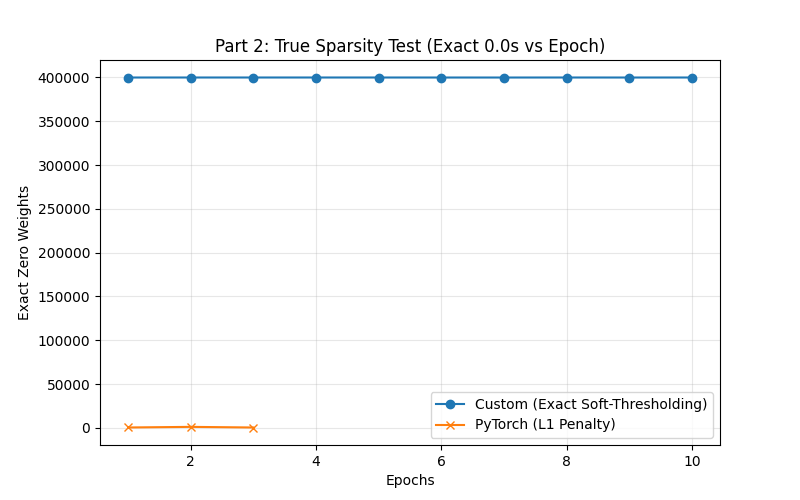
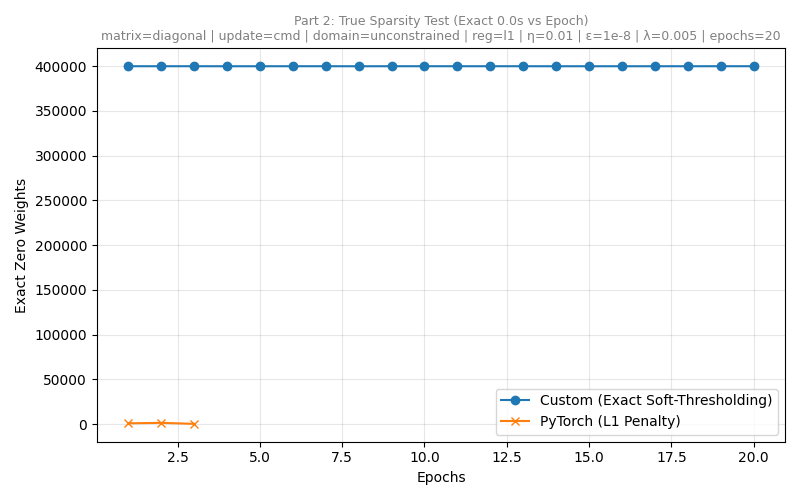
hyperparameters

diff --git a/experiments.py b/experiments.py
@@ -30,12 +30,12 @@ def run_baseline_comparison(device, train_loader, test_loader):
     set_seeds(42)
     model_custom = LogisticRegression(input_dim=20000, num_classes=20).to(device)
     opt_custom = AdaGradStrict(model_custom.parameters(), lr=0.01, matrix_type='diagonal')
-    h_custom = train(model_custom, opt_custom, train_loader, test_loader, epochs=20, device=device)
+    h_custom = train(model_custom, opt_custom, train_loader, test_loader, epochs=30, device=device)
     
     set_seeds(42)
     model_native = LogisticRegression(input_dim=20000, num_classes=20).to(device)
     opt_native = torch.optim.Adagrad(model_native.parameters(), lr=0.01)
-    h_native = train(model_native, opt_native, train_loader, test_loader, epochs=20, device=device)
+    h_native = train(model_native, opt_native, train_loader, test_loader, epochs=30, device=device)
     
     plot_utils.plot_comparisons(h_custom, "AdaGradStrict", h_native, "PyTorch Adagrad")
     return model_custom, opt_custom
@@ -83,7 +83,7 @@ def run_part1(device, train_loader, test_loader):
             if acc > 0:
                 inject_initial_accumulator(opt, model, acc)
                 
-            hist = train(model, opt, train_loader, test_loader, epochs=20, device=device)
+            hist = train(model, opt, train_loader, test_loader, epochs=30, device=device)
             histories[(lr, acc)] = hist
             
             speed = hist['convergence_speed']
@@ -100,12 +100,12 @@ def run_part2(device, train_loader, test_loader):
     set_seeds(42)
     model_custom = LogisticRegression(20000, 20).to(device)
     opt_custom = AdaGradStrict(model_custom.parameters(), lr=0.01, regularizer='l1', lambda_reg=lam)
-    h_custom = train(model_custom, opt_custom, train_loader, test_loader, epochs=20, device=device)
+    h_custom = train(model_custom, opt_custom, train_loader, test_loader, epochs=30, device=device)
     
     set_seeds(42)
     model_native = LogisticRegression(20000, 20).to(device)
     opt_native = torch.optim.Adagrad(model_native.parameters(), lr=0.01)
-    h_native = train(model_native, opt_native, train_loader, test_loader, epochs=3, device=device, pytorch_l1_penalty=lam)
+    h_native = train(model_native, opt_native, train_loader, test_loader, epochs=30, device=device, pytorch_l1_penalty=lam)
     
     plot_utils.plot_part2(h_custom, h_native)
 
@@ -116,12 +116,12 @@ def run_part3(device, train_loader, test_loader):
     set_seeds(42)
     model_cmd = LogisticRegression(20000, 20).to(device)
     opt_cmd = AdaGradStrict(model_cmd.parameters(), lr=0.05, update_type='cmd', regularizer='l2', lambda_reg=lam)
-    h_cmd = train(model_cmd, opt_cmd, train_loader, test_loader, epochs=20, device=device)
+    h_cmd = train(model_cmd, opt_cmd, train_loader, test_loader, epochs=30, device=device)
     
     set_seeds(42)
     model_pd = LogisticRegression(20000, 20).to(device)
     opt_pd = AdaGradStrict(model_pd.parameters(), lr=0.05, update_type='primal_dual', regularizer='l2', lambda_reg=lam)
-    h_pd = train(model_pd, opt_pd, train_loader, test_loader, epochs=20, device=device)
+    h_pd = train(model_pd, opt_pd, train_loader, test_loader, epochs=30, device=device)
     
     plot_utils.plot_part3(h_cmd, h_pd)
 
@@ -132,12 +132,12 @@ def run_part4(device, train_loader, test_loader):
     set_seeds(42)
     model_un = LogisticRegression(20000, 20).to(device)
     opt_un = AdaGradStrict(model_un.parameters(), lr=0.1) 
-    h_un = train(model_un, opt_un, train_loader, test_loader, epochs=20, device=device)
+    h_un = train(model_un, opt_un, train_loader, test_loader, epochs=30, device=device)
     
     set_seeds(42)
     model_c = LogisticRegression(20000, 20).to(device)
     opt_c = AdaGradStrict(model_c.parameters(), lr=0.1, domain='l1_ball', domain_c=bound)
-    h_c = train(model_c, opt_c, train_loader, test_loader, epochs=20, device=device)
+    h_c = train(model_c, opt_c, train_loader, test_loader, epochs=30, device=device)
     
     plot_utils.plot_part4(h_un, h_c)
 
@@ -156,7 +156,7 @@ def run_part5(device, train_loader, test_loader):
         set_seeds(42)
         model = LogisticRegression(20000, 20).to(device)
         opt = AdaGradStrict(model.parameters(), lr=0.01, **kwargs)
-        hist = train(model, opt, train_loader, test_loader, epochs=20, device=device)
+        hist = train(model, opt, train_loader, test_loader, epochs=30, device=device)
         histories[name] = hist
     
     plot_utils.plot_part5(histories)
